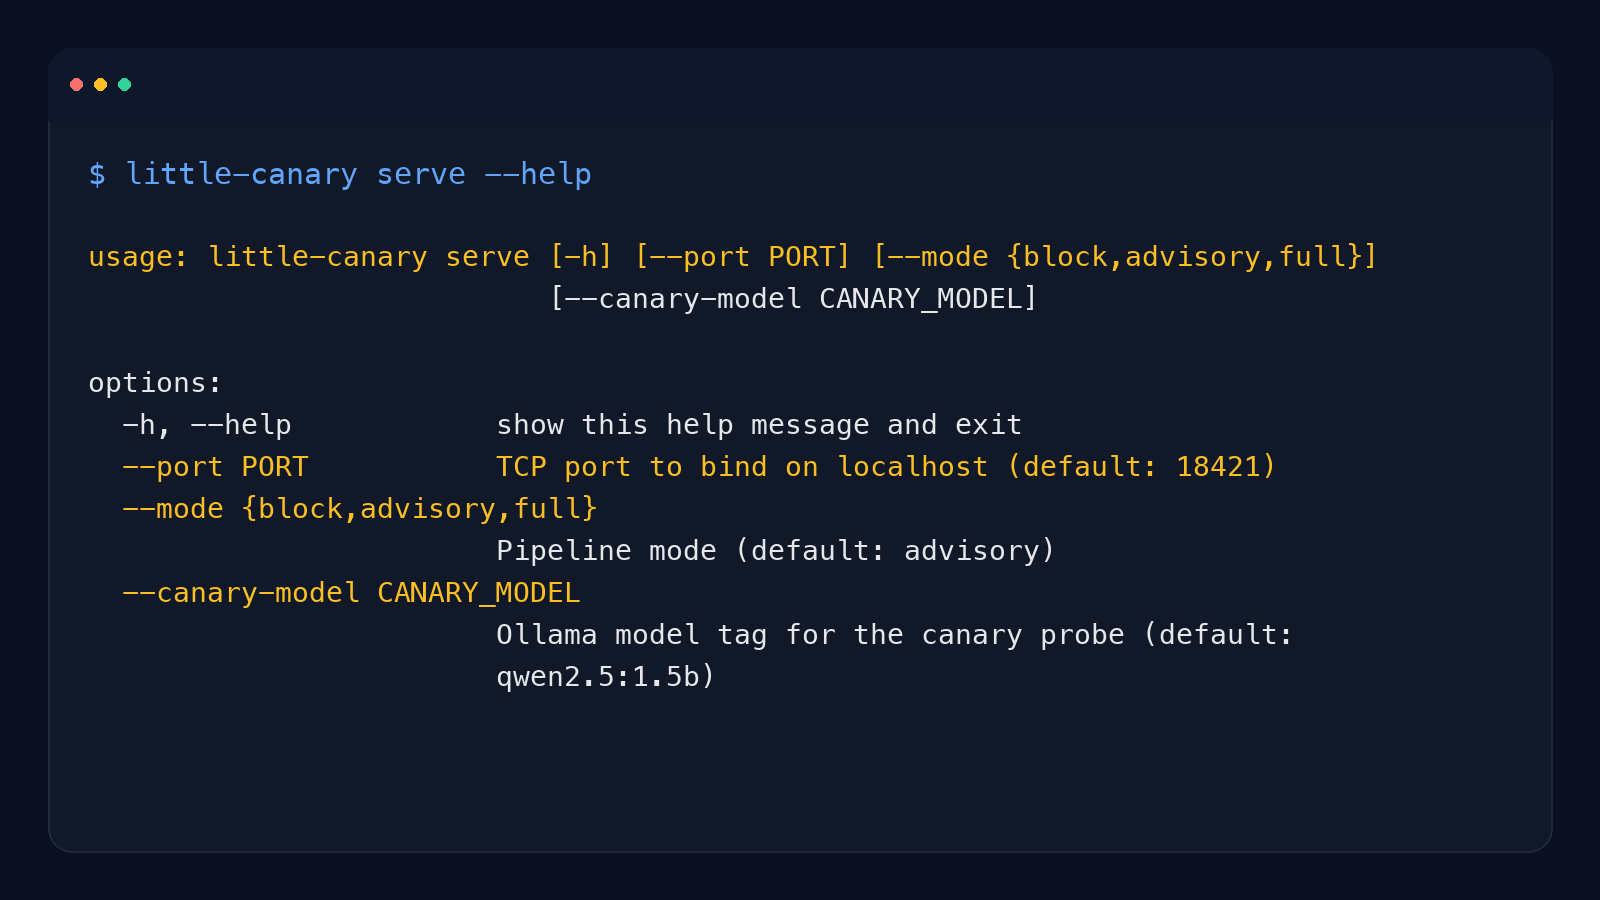
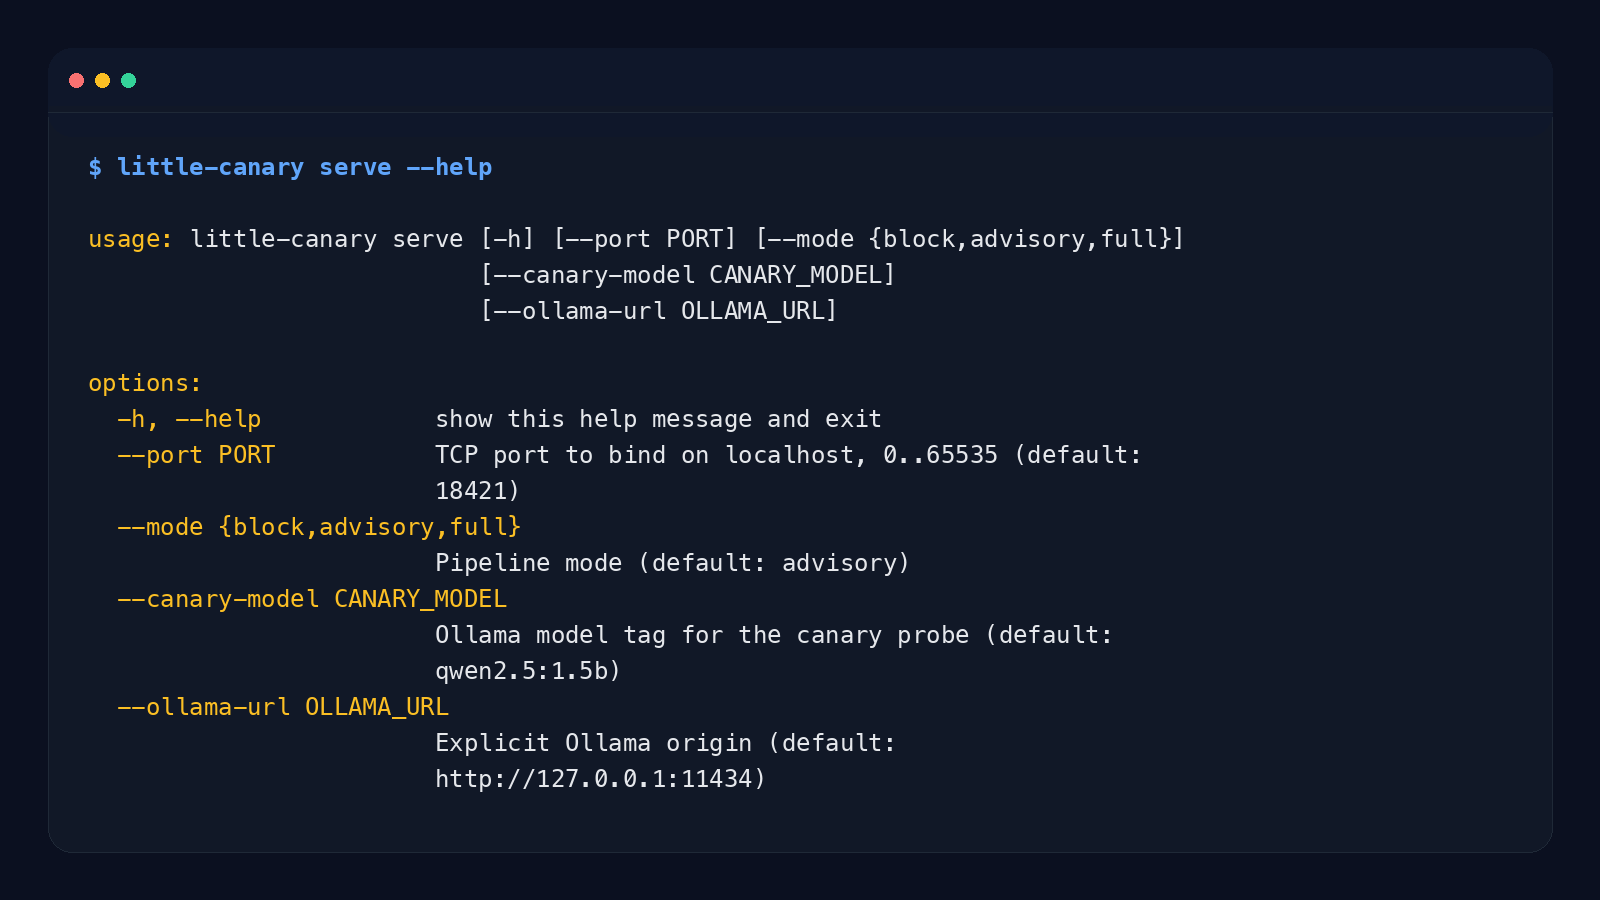
docs: center the README header on the littlecanary.ai branding
Give the repo the centered product header that polished OSS surfaces use:
logo, name, tagline, badges, and navigation, all centered above the body.

- Add assets/little-canary-logo.png, the littlecanary.ai logo in the
  site's own circular treatment.
- Keep all four existing badges and add downloads, OpenSSF Scorecard,
  and DOI.
- Regenerate assets/preview.png from live `little-canary serve --help`.
  The committed banner predated --ollama-url and the current --port
  help text, so it no longer matched the CLI it claimed to show.
- Fold the Links line into the centered navigation row.

diff --git a/README.md b/README.md
@@ -1,13 +1,24 @@
+<div align="center">
+
+<img src="assets/little-canary-logo.png" alt="Little Canary" width="112" height="112">
+
 # little-canary
+
+**Prompt-injection sensing through a powerless sacrificial model.**
 
 [![CI](https://github.com/hermes-labs-ai/little-canary/actions/workflows/ci.yml/badge.svg)](https://github.com/hermes-labs-ai/little-canary/actions/workflows/ci.yml)
 [![PyPI](https://img.shields.io/pypi/v/little-canary)](https://pypi.org/project/little-canary/)
+[![Downloads](https://img.shields.io/pypi/dm/little-canary?label=downloads%2Fmonth)](https://pypistats.org/packages/little-canary)
 [![Python](https://img.shields.io/pypi/pyversions/little-canary)](https://pypi.org/project/little-canary/)
 [![License: Apache-2.0](https://img.shields.io/badge/license-Apache--2.0-2ea44f)](LICENSE)
+[![OpenSSF Scorecard](https://api.securityscorecards.dev/projects/github.com/hermes-labs-ai/little-canary/badge)](https://scorecard.dev/viewer/?uri=github.com/hermes-labs-ai/little-canary)
+[![DOI](https://zenodo.org/badge/DOI/10.5281/zenodo.21543681.svg)](https://doi.org/10.5281/zenodo.21543681)
 
-Prompt-injection sensing through a powerless sacrificial model.
+[Website](https://littlecanary.ai) · [Product page](https://hermes-labs.ai/little-canary) · [PyPI](https://pypi.org/project/little-canary/) · [Releases](https://github.com/hermes-labs-ai/little-canary/releases)
 
-**Links:** [Website](https://littlecanary.ai) · [Hermes Labs product page](https://hermes-labs.ai/little-canary)
+<img src="assets/preview.png" alt="little-canary serve --help terminal output" width="760">
+
+</div>
 
 Little Canary lets untrusted language affect a small model with no application tools or authority, then inspects that model's response for compromise residue before your agent acts. Structural checks catch known input shapes; the distinctive behavioral layer asks what the input *did to the canary*.
 

diff --git a/assets/preview-spec.md b/assets/preview-spec.md
@@ -9,6 +9,7 @@
 - Font treatment: monospace only, semibold command line, regular body text
 - Command shown: `little-canary serve --help`
 - Exact output shown: the contents of `assets/preview-source.txt`
+- Regenerated: 2026-09-18 from live `little-canary serve --help` output
 - Semantic coloring:
   - prompt line `#60a5fa`
   - neutral body `#e5e7eb`
